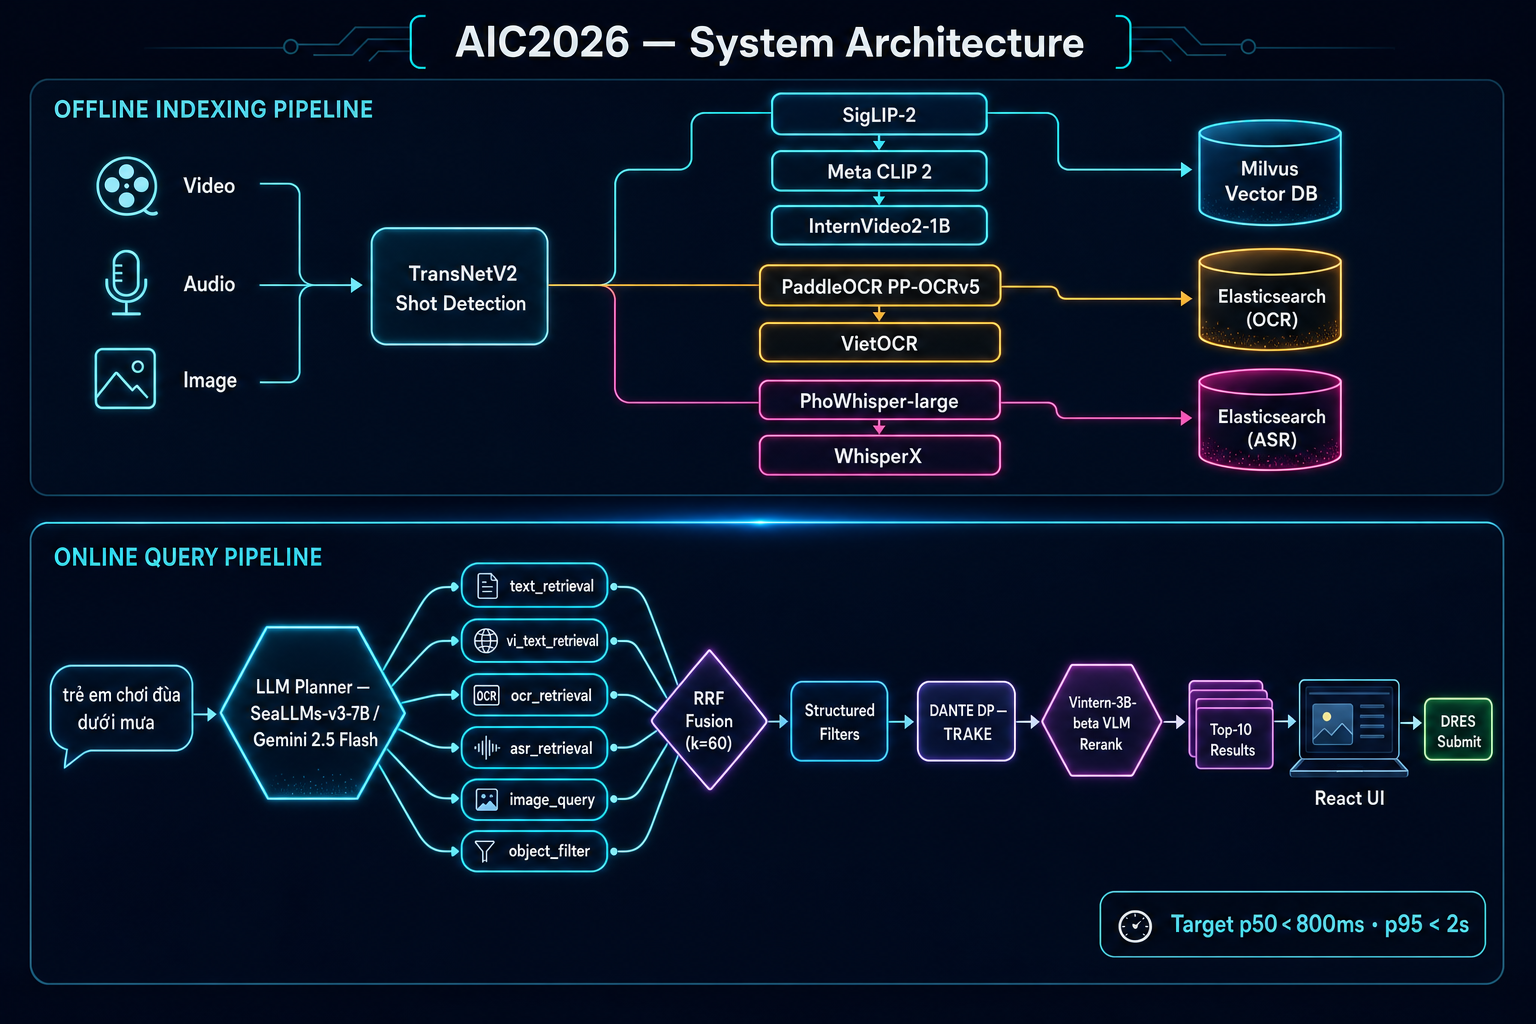
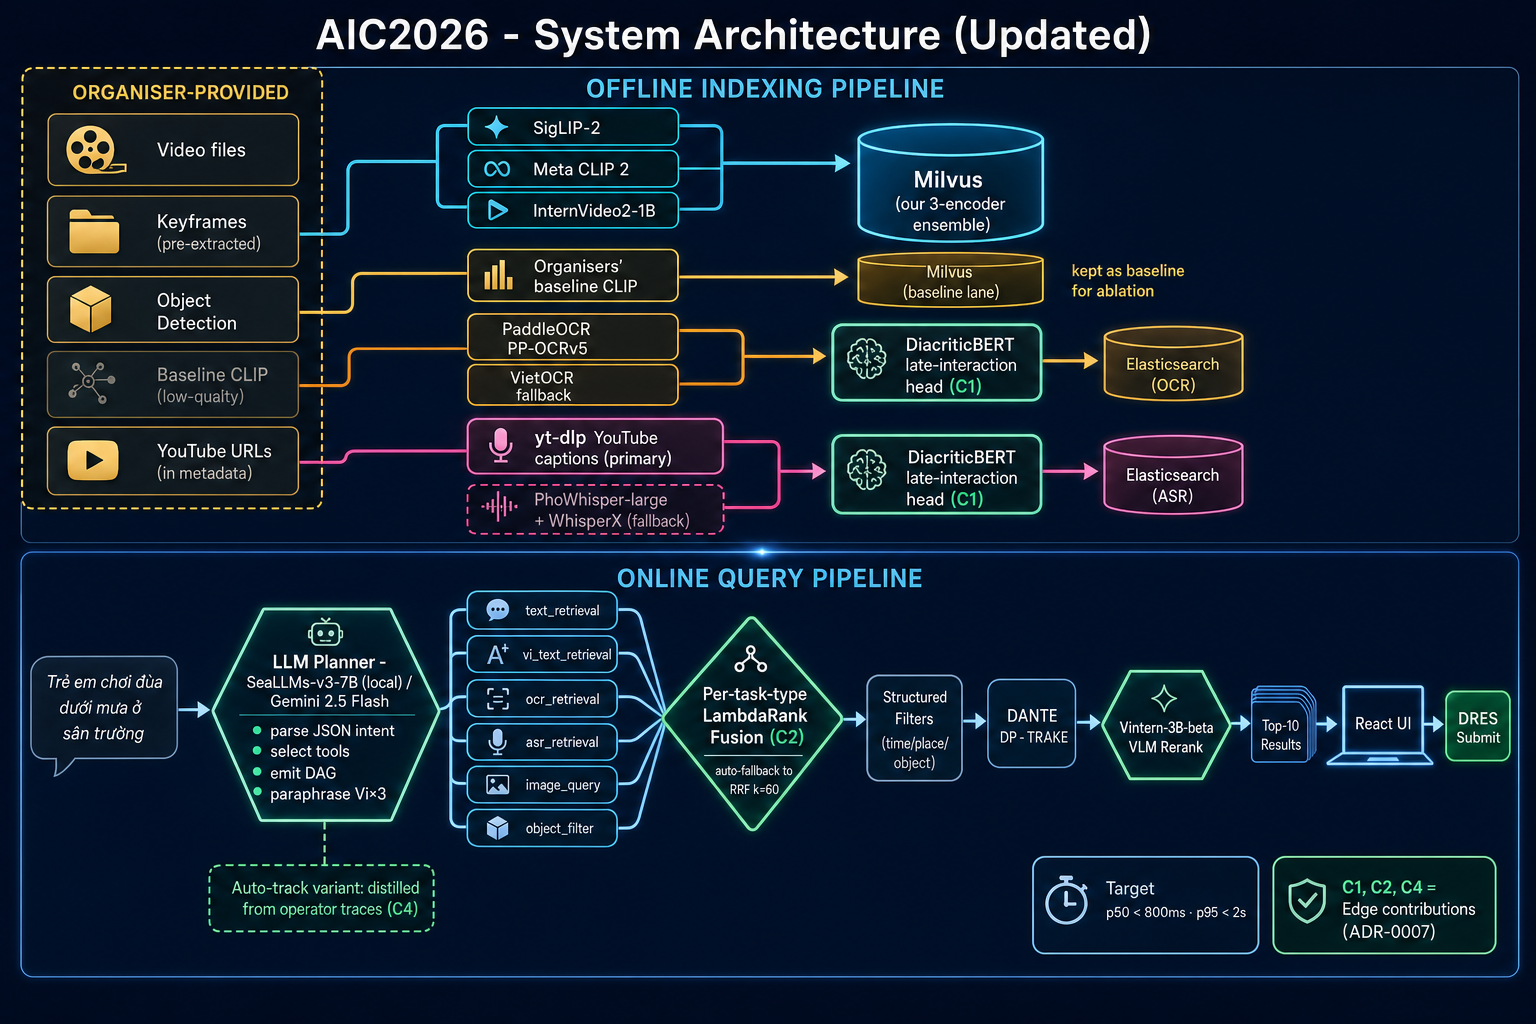
docs(illustrations): refresh the system-architecture diagram
Brings the front-door architecture illustration in line with the
decisions that landed after the original was generated:

- ADR-0007 / proposal 08 (C1 DiacriticBERT, C2 LambdaRank fusion,
  C4 agent self-distillation as our three Edge contributions).
- ADR-0008 (RRF k=60 is the runtime fallback; per-task-type
  LambdaRank is the default fusion).
- Research-note 06 (organisers ship keyframes + OD + baseline CLIP +
  YouTube URLs; yt-dlp captions become the primary Vietnamese-ASR
  source; PhoWhisper falls back to "videos with no caption track").

Visual conventions adopted in the new image:
- Mint-green outline highlights the three Edge contributions (C1, C2,
  C4) so the team can see at a glance what is ours vs reused 2026
  SOTA.
- Dimmed gold marks the organiser-provided inputs (keyframes, OD,
  baseline CLIP, YouTube URLs in metadata). The baseline CLIP lane is
  drawn but explicitly captioned "kept as baseline for ablation".
- Brightness in the ASR pipeline encodes priority: yt-dlp captions
  (primary) are bright; PhoWhisper-large + WhisperX (fallback) is
  dimmed with a dashed border.
- The DiacriticBERT (C1) head is drawn as a distinct node that both
  the OCR and ASR text streams flow through before reaching their
  Elasticsearch indices.
- The "auto-track variant: distilled from operator traces (C4)"
  annotation hangs off the LLM Planner as a dashed mint-green note,
  signalling that the same planner has two training paths.
[…]

Changed region(s): [[0.0, 0.0, 1.0, 0.9688], [0.125, 0.8438, 0.2812, 0.9062]]

diff --git a/docs/illustrations/README.md b/docs/illustrations/README.md
@@ -6,15 +6,22 @@
 
 ![System Architecture](aic2026-system-architecture.png)
 
-What this shows: the full **offline indexing pipeline** (top) and **online query pipeline** (bottom) in one view.
+What this shows: the full **offline indexing pipeline** (top) and **online query pipeline** (bottom), reflecting the architecture as it stood after the dataset-shape intel ([research-note 06](../research-notes/06-aic2026-dataset-shape.md)) and the original-contributions decisions ([ADR-0007](../adr/ADR-0007-original-contributions-c1-c2-c4.md), [ADR-0008](../adr/ADR-0008-rrf-as-runtime-fallback.md)).
+
+Visual conventions:
+- **Mint-green outlines** mark our three Edge contributions: C1 (DiacriticBERT late-interaction head, offline), C2 (per-task-type LambdaRank fusion, online), C4 (planner self-distillation from operator traces).
+- **Dimmed gold** marks the organiser-provided lane (keyframes, OD, baseline CLIP, YouTube URLs in metadata). The baseline CLIP is kept only as an ablation lane; we don't expect it to beat our 3-encoder ensemble.
+- **Brightness** in the ASR row reflects priority: yt-dlp YouTube captions are bright (primary), PhoWhisper-large is dimmed with a dashed border (fallback for videos lacking captions).
 
 Discussion prompts for the team:
 - Do we agree on the three image encoders (SigLIP-2, Meta CLIP 2, InternVideo2-1B)? Should we replace InternVideo2 with V-JEPA-2 or LanguageBind?
-- One Milvus, two Elasticsearch indexes - or fold everything into Milvus hybrid?
-- Should the planner LLM also be in the offline pipeline (for caption generation)?
-- Where does the audio-events (CLAP) lane fit? Add a fourth pipeline?
+- One Milvus collection per encoder, or one Milvus collection with multiple vector fields? Either way, do we keep the organisers' baseline CLIP indexed (gold lane) for ablation? See research-note 06 SS 2.3 for the rationale.
+- yt-dlp primary, PhoWhisper fallback - what is our empirical caption-coverage threshold for dropping PhoWhisper entirely? (PhoWhisper is CC-BY-NC-SA; coverage-driven removal would close strategy SS 10 item 2.)
+- DiacriticBERT is shown applied to both OCR and ASR text. Is there a case for applying it only to ASR (which is noisier) and not OCR? Defer to SPEC-0014.
+- Where does the audio-events (CLAP) lane fit? Add a fifth pipeline if we end up using it; not currently in scope.
+- The "auto-track variant: distilled from operator traces (C4)" annotation under the planner - is that the right hierarchy, or should the auto-track be drawn as a separate side-loop?
 
-Reference: `docs/proposals/01-interactive-system-architecture.md`.
+Reference: `docs/proposals/01-interactive-system-architecture.md`, `docs/proposals/08-original-contributions.md`, [`docs/research-notes/06-aic2026-dataset-shape.md`](../research-notes/06-aic2026-dataset-shape.md).
 
 ## 2. UI Mockup - `aic2026-ui-mockup.png`
 